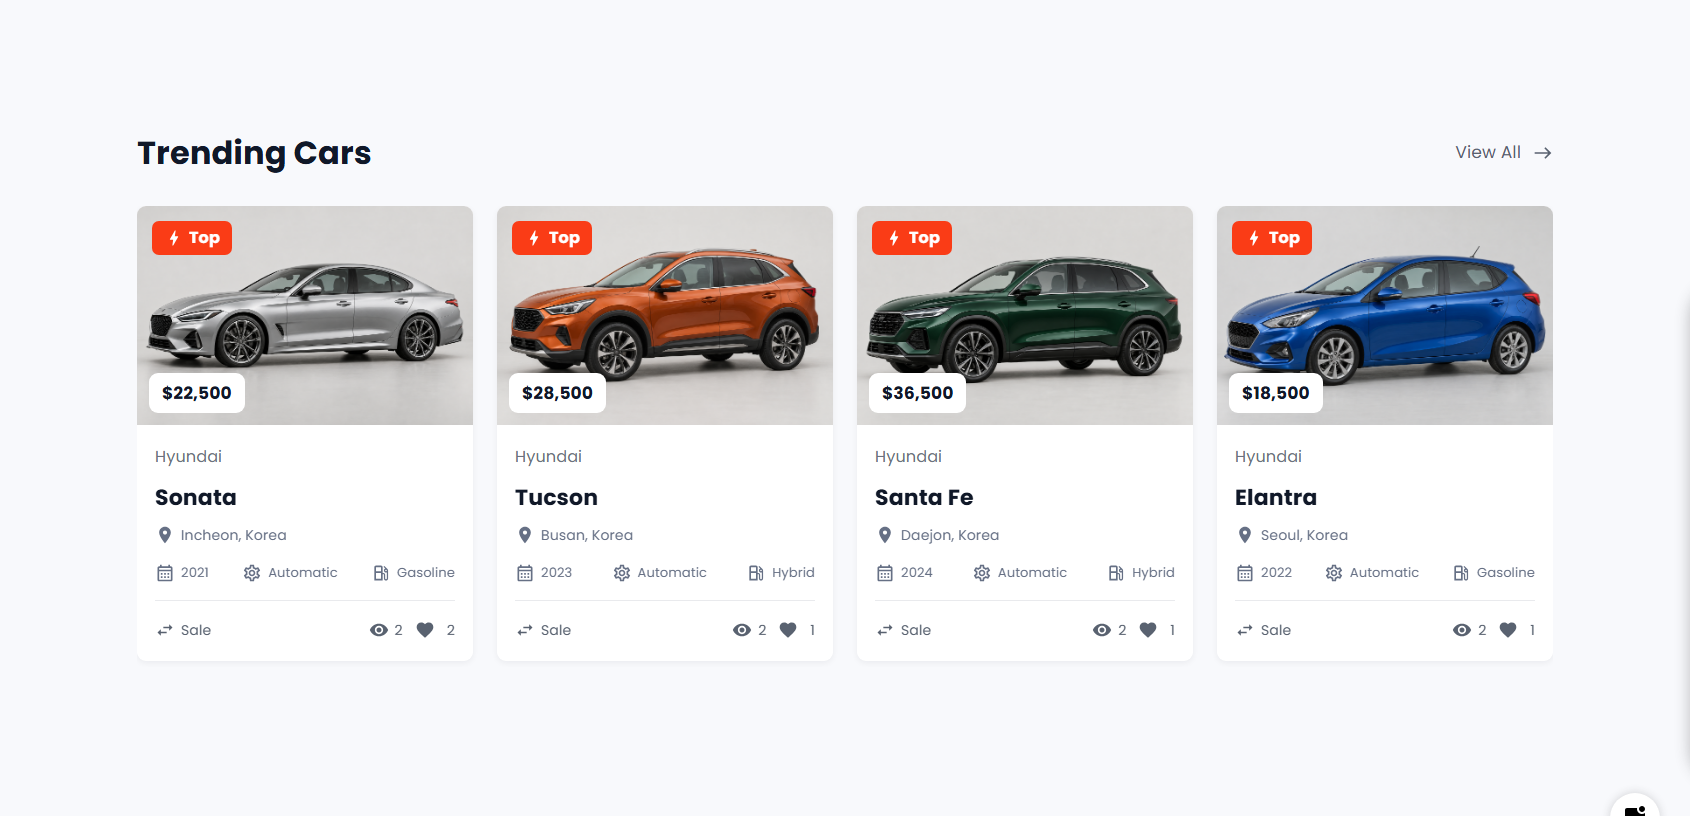
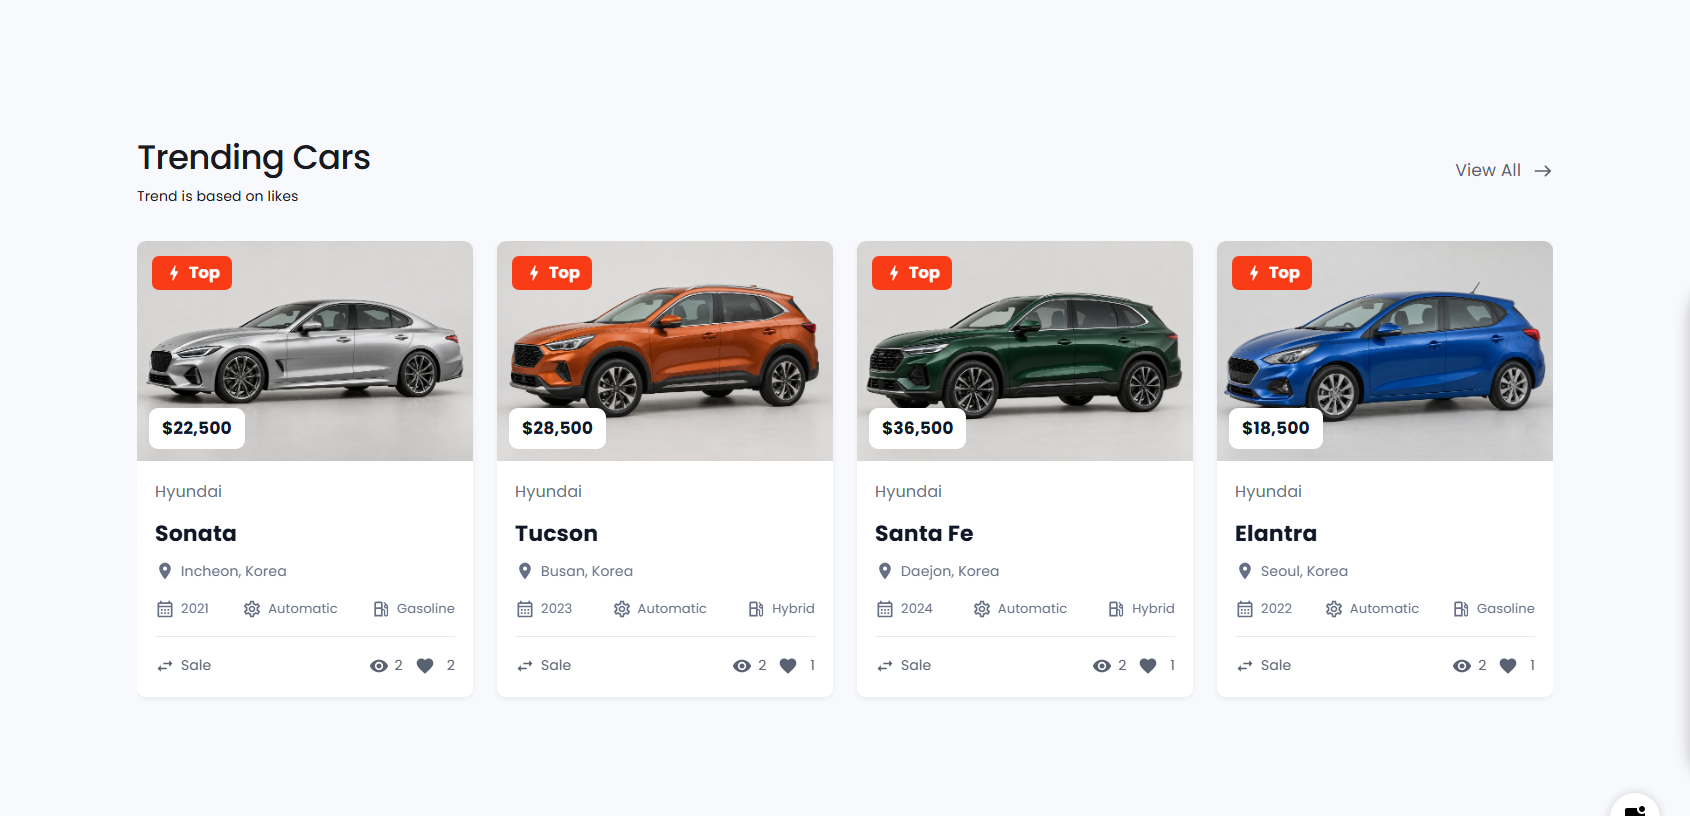
fix: align homepage heading typography with design standards

diff --git a/scss/pc/homepage/homepage.scss b/scss/pc/homepage/homepage.scss
@@ -985,7 +985,7 @@
 			width: calc(100% - 160px); max-width: 1416px; padding: 0; margin: 0 auto;
 			display: flex; flex-direction: column;
 		}
-		h2 { margin: 0 0 28px; color: #101720; font-size: 30px; font-weight: 700; line-height: 1.3; letter-spacing: -.8px; }
+		h2 { margin: 0 0 28px; color: #181a20; font-family: $font; font-size: 34px; font-weight: 500; line-height: 150%; letter-spacing: -.646px; }
 		.budget-cards { position: relative; width: 100%; display: flex; flex-direction: row; }
 		.budget-swiper { width: 100%; margin: 0; }
 		.budget-slide { width: calc((100% - 90px) / 6); height: auto; }
@@ -1228,7 +1228,8 @@
   .container { width: calc(100% - 160px); max-width: 1416px; flex-direction: column; }
   .info-box {
    width: 100%; display: flex; flex-direction: row; align-items: center; justify-content: space-between; gap: 20px;
-   h2 { margin: 0; color: #101828; font-size: 32px; font-weight: 700; line-height: 1.3; }
+   h2 { margin: 0; color: #181a20; font-family: $font; font-size: 34px; font-weight: 500; line-height: 150%; letter-spacing: -.646px; }
+   .left p { margin: 0; color: #181a20; font-family: $font; font-size: 14px; font-weight: 400; line-height: 26px; }
    .trending-view-all { display: inline-flex; align-items: center; gap: 12px; color: #596270; font-size: 17px; white-space: nowrap; }
   }
   .container .card-box {

diff --git a/libs/components/homepage/TrendCars.tsx b/libs/components/homepage/TrendCars.tsx
@@ -67,7 +67,10 @@ const TrendCars = (props: TrendCarsProps) => {
   <Stack component="section" className="trend-cars trending-cars-section" aria-labelledby="trending-cars-heading">
    <Stack className="container">
     <Stack className="info-box">
-     <h2 id="trending-cars-heading">{t('Trending Cars')}</h2>
+     <div className="left">
+      <h2 id="trending-cars-heading">{t('Trending Cars')}</h2>
+      <p>{t('Trend is based on likes')}</p>
+     </div>
      <Link className="trending-view-all" href={{ pathname: '/car', query: { input: JSON.stringify({ ...initialInput, page: 1, limit: 9 }) } }}>
       {t('View All')} <EastIcon fontSize="small" />
      </Link>

diff --git a/docs/HOME_TRENDING_UI.md b/docs/HOME_TRENDING_UI.md
@@ -44,3 +44,7 @@ Validation: Yarn typecheck, lint (zero errors, 190 existing warnings), migration
 
 ## Fourth demo car — 2026-10-08
 User requested one more card. Added Demo Hyundai Santa Fe (ID 6ac73a83e8ca66a84a682deb), 2024, USD 36500, HYBRID, USED, exact DAEJON/AVTOMATIC, existing green illustrative artwork. Reused demo AGENT and two USER accounts through existing GraphQL APIs; new car has 1 like and 2 distinct authenticated views. No new accounts or frontend/backend source changes in this follow-up. Public like-sorted query and live localhost:3000 browser confirm four eligible cards, matching 816px Trending/Popular heights and responsive mobile without runtime exceptions. Existing Sonata now has 2 likes; this follow-up did not modify its engagement. Updated live screenshots.
+
+
+## Popular typography alignment — 2026-10-08
+Trending Cars and Browse by Budget headings match existing Popular Cars desktop typography exactly: Poppins, 34px, weight 500, 150% line height, -0.646px letter spacing, #181a20. Added existing translated Trend is based on likes subtitle under Trending, matching Popular subtitle typography. Responsive 25px mobile headings retained. Existing GraphQL carLikes DESC ordering, >=1 like AND >=2 views eligibility, Budget filters and arrow behavior unchanged; no data writes or backend source changes. Typecheck, lint (190 existing warnings/no errors), migration/auth tests, live GraphQL and 88-page build passed. Real browser compared computed typography for all three headings, verified like subtitle and descending real counts, four cards, 816px desktop height, responsive mobile and no exceptions. Updated live Trending screenshots.

diff --git a/docs/HOME_BUDGET_UI.md b/docs/HOME_BUDGET_UI.md
@@ -58,3 +58,7 @@ The existing NESTAR homepage folder/layout HOC, Pages Router, Swiper, MUI, SCSS 
 Mode: built-in `image_gen`, six separate generation calls. Final files: `public/img/car/budget/budget-{blue,orange,red,slate,white,yellow}.png`. Original generated files were retained. Exact final prompts, modes and saved paths are recorded in [BUDGET_IMAGE_PROMPTS.json](BUDGET_IMAGE_PROMPTS.json).
 
 Further homepage sections, Cars UI/forms, comments, authentication and backend defects remain outside this slice. Backend documentation only was updated in its actual `docs/COMPLETED_TASKS.md`; `docs/ai` does not exist. No dependencies, lockfiles, database records or Git commits were changed.
+
+
+## Popular typography alignment — 2026-10-08
+Trending Cars and Browse by Budget headings match existing Popular Cars desktop typography exactly: Poppins, 34px, weight 500, 150% line height, -0.646px letter spacing, #181a20. Added existing translated Trend is based on likes subtitle under Trending, matching Popular subtitle typography. Responsive 25px mobile headings retained. Existing GraphQL carLikes DESC ordering, >=1 like AND >=2 views eligibility, Budget filters and arrow behavior unchanged; no data writes or backend source changes. Typecheck, lint (190 existing warnings/no errors), migration/auth tests, live GraphQL and 88-page build passed. Real browser compared computed typography for all three headings, verified like subtitle and descending real counts, four cards, 816px desktop height, responsive mobile and no exceptions. Updated live Trending screenshots.
